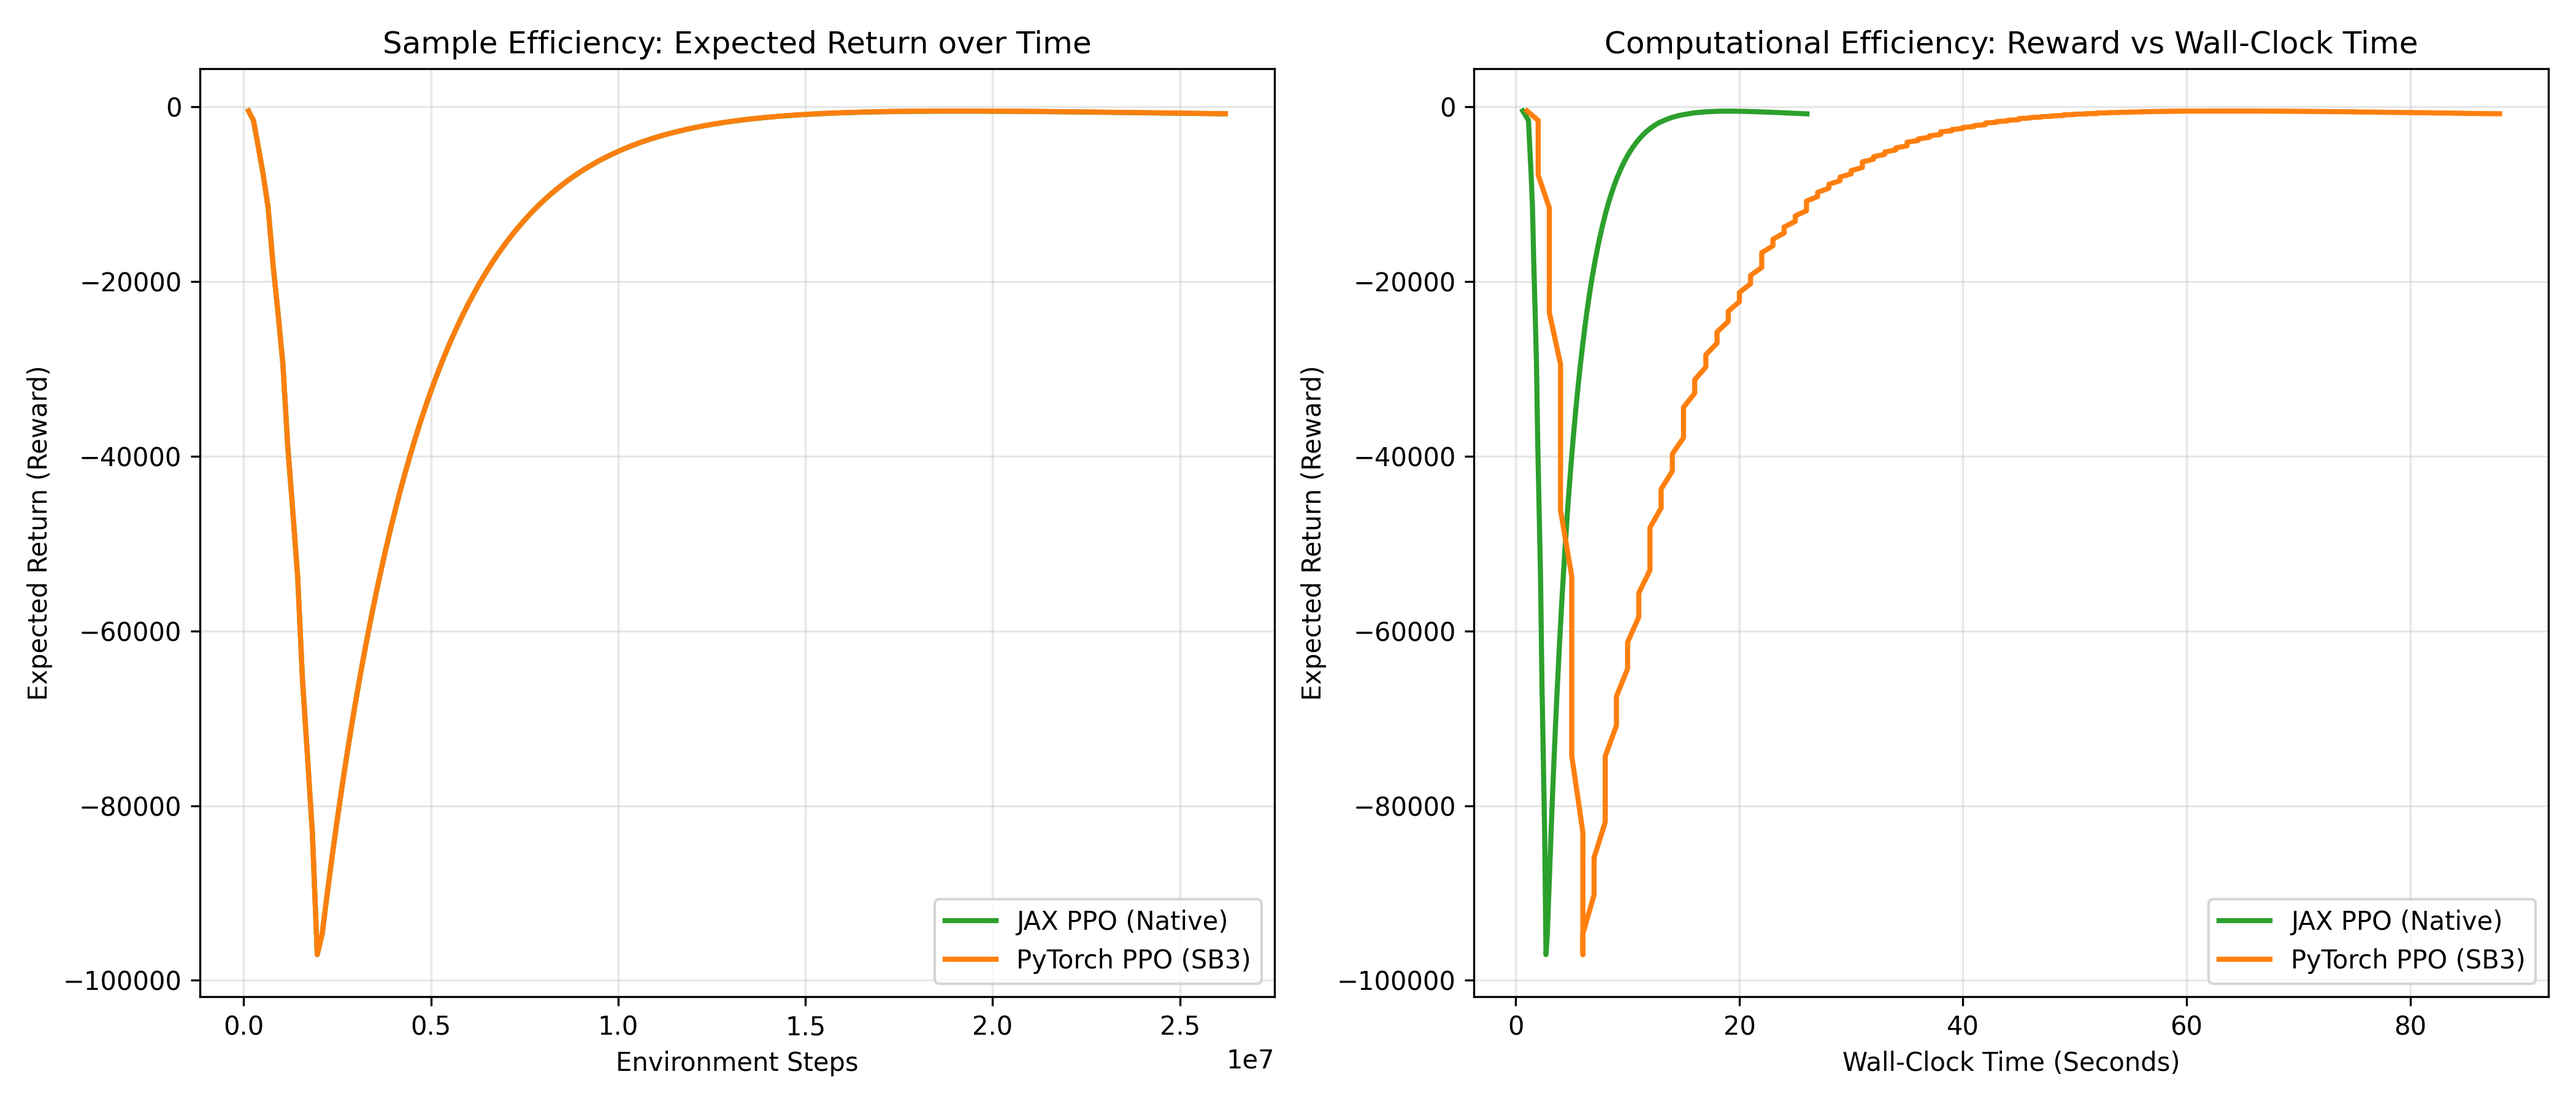
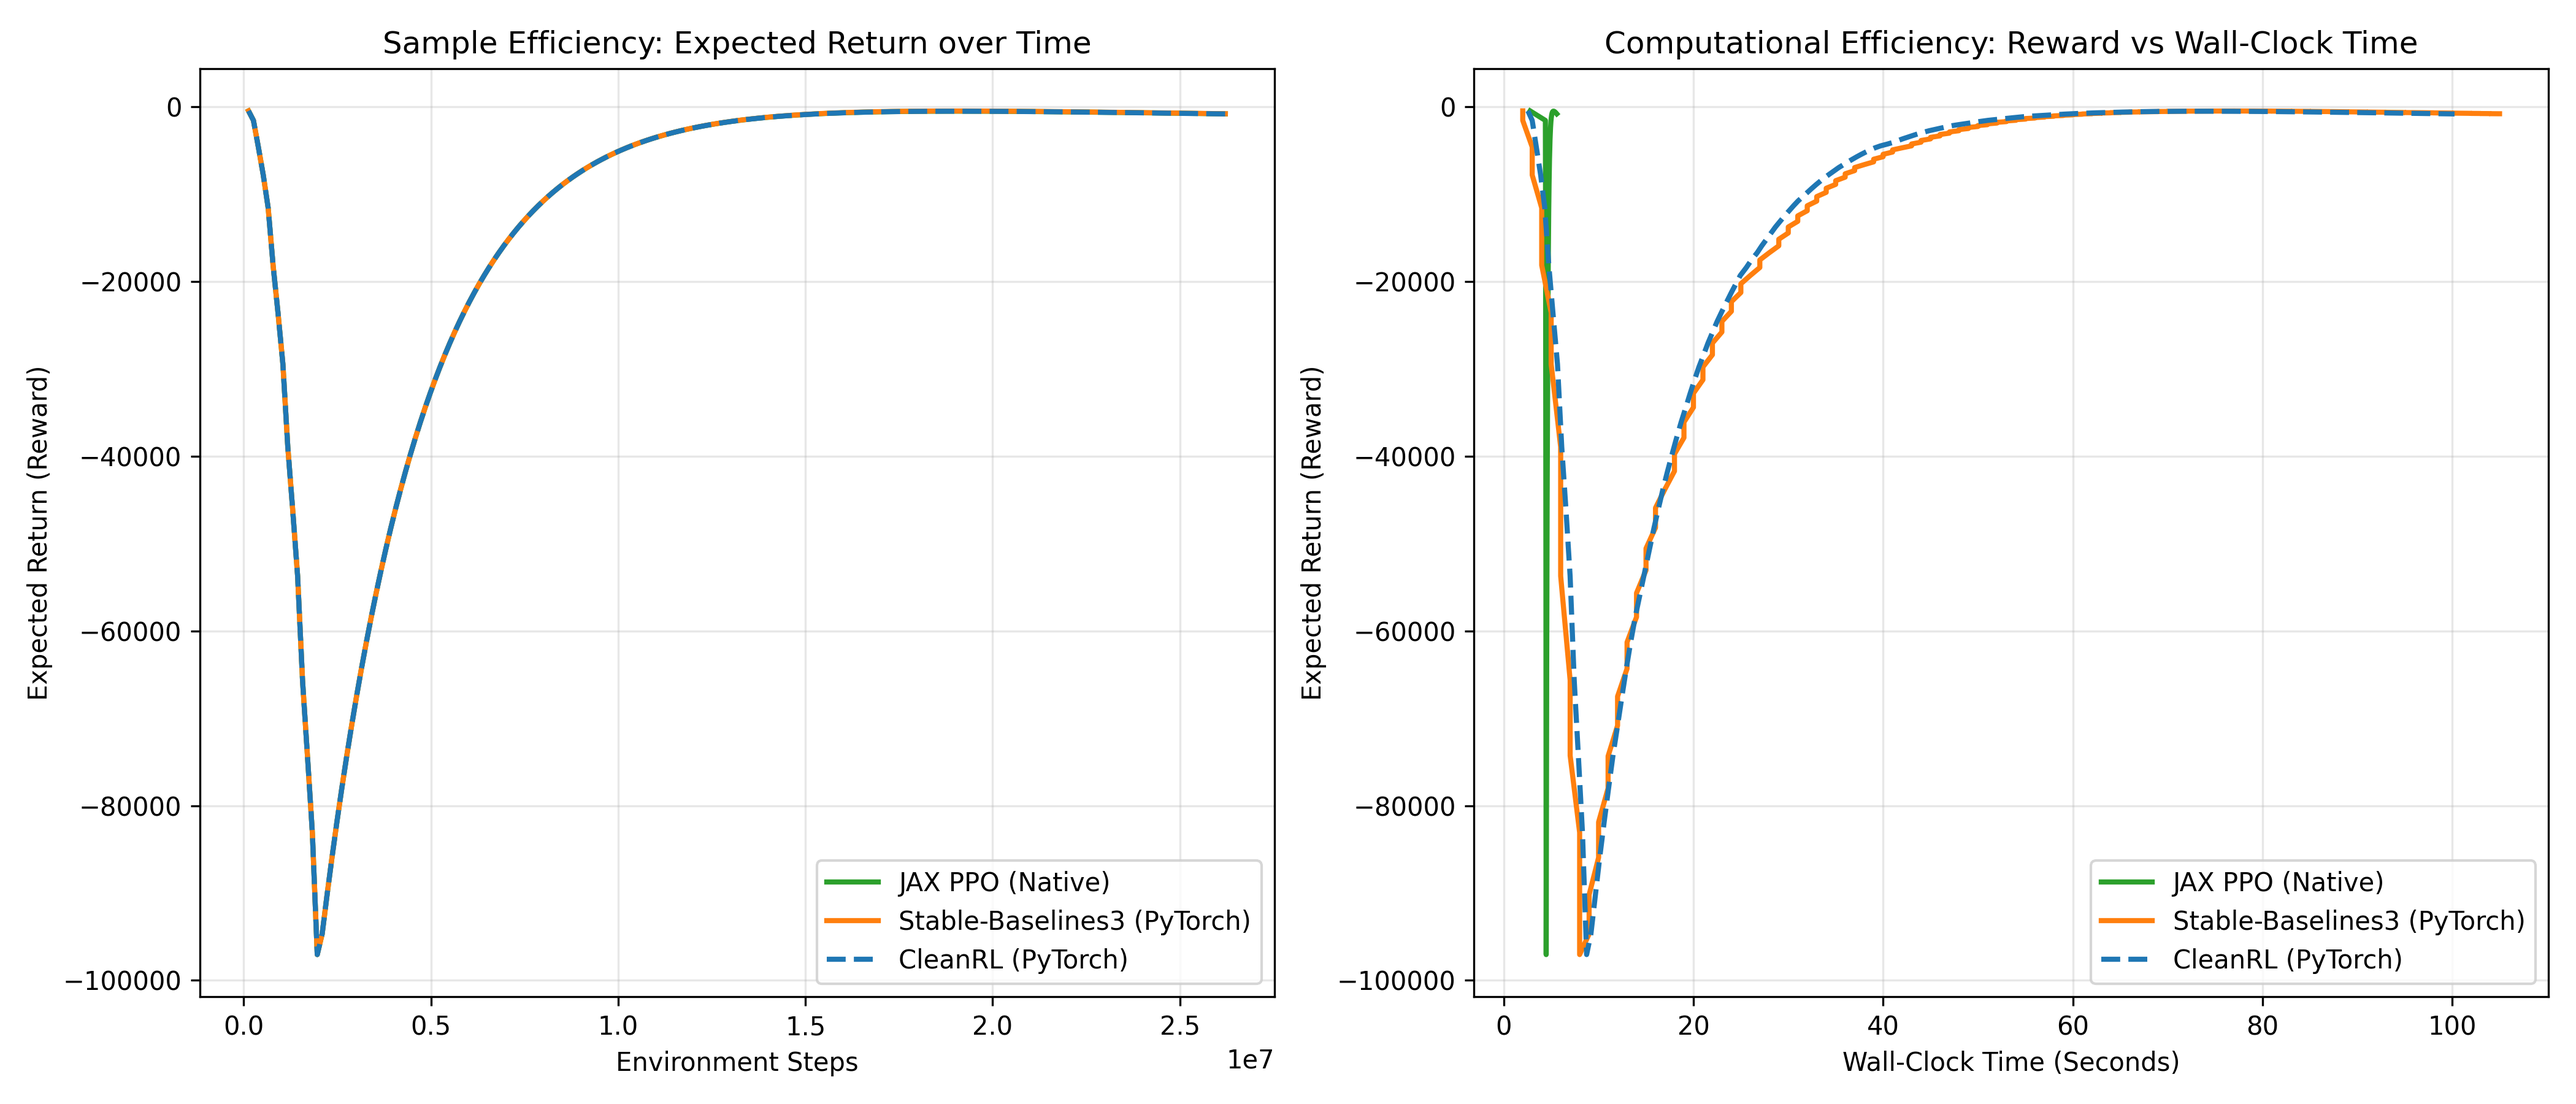
Computational speed compared between native vs cleanrl vs sb3

diff --git a/benchmark_cleanrl.py b/benchmark_cleanrl.py
@@ -1,0 +1,223 @@
+import os
+import sys
+import time
+import csv
+import numpy as np
+import jax
+import jax.numpy as jnp
+import gymnasium as gym
+
+import torch
+import torch.nn as nn
+import torch.optim as optim
+from torch.distributions.normal import Normal
+
+sys.path.append("/home/emmanuel-gendy/Documents/EnergySim")
+
+from energysim.sim.simulator import JAXSimulator
+from energysim.core.data.dataset import SimulationDataset
+from energysim.rl.vector_env import VectorizedEnergyEnv
+from energysim.core.shared.data_structs import (
+    BatteryConfig, RewardConfig, HeatPumpConfig, AirConditionerConfig, 
+    ThermalStorageConfig, PVConfig
+)
+from examples.build_my_house import create_2_room_house
+from energysim.rl.helpers import extract_obs
+
+# --- HYPERPARAMETERS ---
+NUM_ENVS = 2048
+ROLLOUT_STEPS = 64
+EPOCHS = 200
+LEARNING_RATE = 3e-4
+GAMMA = 0.99
+GAE_LAMBDA = 0.95
+CLIP_COEF = 0.2
+ENT_COEF = 0.01
+VF_COEF = 0.5
+
+def map_actions(norm_actions, n_envs, n_rooms):
+    return SystemActions(
+        battery_power_w=norm_actions[:, 0] * 3000.0,
+        heat_pump_power_w=(norm_actions[:, 1:1+n_rooms] + 1.0) * 1000.0,
+        ac_power_w=jnp.zeros((n_envs, n_rooms)), 
+        storage_discharge_w=jnp.zeros((n_envs, n_rooms))
+    )
+
+from energysim.core.shared.data_structs import SystemActions
+
+# --- GYMNASIUM WRAPPER (Standard) ---
+class CleanRLGymWrapper(gym.vector.VectorEnv):
+    def __init__(self, jax_env, num_envs, obs_dim, action_dim, extract_obs_fn, map_actions_fn):
+        super().__init__()
+        self.jax_env = jax_env
+        self.extract_obs_fn = extract_obs_fn
+        self.map_actions_fn = map_actions_fn
+        self.num_envs = num_envs
+        self.single_observation_space = gym.spaces.Box(low=-np.inf, high=np.inf, shape=(obs_dim,))
+        self.single_action_space = gym.spaces.Box(low=-1.0, high=1.0, shape=(action_dim,))
+        self._key = jax.random.PRNGKey(42)
+
+    def reset(self, seed=None, options=None):
+        self._key, reset_key = jax.random.split(self._key)
+        self._env_state = self.jax_env.reset(reset_key)
+        t = self._env_state.time_idx[0]
+        exo = jax.tree.map(lambda x: x[t], self.jax_env.shared_exo_data)
+        obs = jax.vmap(self.extract_obs_fn, in_axes=(0, None))(self._env_state.sim.state, exo)
+        return np.array(obs), {}
+
+    def step(self, actions):
+        phys_actions = self.map_actions_fn(jnp.array(actions), self.num_envs)
+        self._env_state, reward, done, _ = self.jax_env.step(self._env_state, phys_actions)
+        t = self._env_state.time_idx[0]
+        exo = jax.tree.map(lambda x: x[t], self.jax_env.shared_exo_data)
+        obs = jax.vmap(self.extract_obs_fn, in_axes=(0, None))(self._env_state.sim.state, exo)
+        return np.array(obs), np.array(reward), np.array(done, dtype=bool), np.zeros_like(np.array(done, dtype=bool)), {}
+
+# --- CLEAN RL AGENT ---
+def layer_init(layer, std=np.sqrt(2), bias_const=0.0):
+    torch.nn.init.orthogonal_(layer.weight, std)
+    torch.nn.init.constant_(layer.bias, bias_const)
+    return layer
+
+class Agent(nn.Module):
+    def __init__(self, obs_dim, act_dim):
+        super().__init__()
+        self.critic = nn.Sequential(
+            layer_init(nn.Linear(obs_dim, 64)), nn.ReLU(),
+            layer_init(nn.Linear(64, 64)), nn.ReLU(),
+            layer_init(nn.Linear(64, 1), std=1.0),
+        )
+        self.actor_mean = nn.Sequential(
+            layer_init(nn.Linear(obs_dim, 64)), nn.ReLU(),
+            layer_init(nn.Linear(64, 64)), nn.ReLU(),
+            layer_init(nn.Linear(64, act_dim), std=0.01),
+        )
+        self.actor_logstd = nn.Parameter(torch.zeros(1, act_dim))
+
+    def get_value(self, x):
+        return self.critic(x)
+
+    def get_action_and_value(self, x, action=None):
+        action_mean = torch.tanh(self.actor_mean(x))
+        action_logstd = self.actor_logstd.expand_as(action_mean)
+        action_std = torch.exp(action_logstd)
+        probs = Normal(action_mean, action_std)
+        if action is None:
+            action = probs.sample()
+        return action, probs.log_prob(action).sum(1), probs.entropy().sum(1), self.critic(x)
+
+# --- TRAINING LOOP ---
+def run_cleanrl():
+    device = torch.device("cuda" if torch.cuda.is_available() else "cpu")
+    print(f"--- [CleanRL] 1. Initializing Engine on {device} ---")
+    
+    t_config = create_2_room_house()
+    n_rooms = len(t_config.room_air_indices)
+    dataset = SimulationDataset(file_path="/home/emmanuel-gendy/Documents/EnergySim/examples/sample_data.csv", dt_seconds=900)    
+    sim = JAXSimulator(
+        dt_seconds=900, t_config=t_config, r_config=RewardConfig(price_weight=1.0, comfort_weight=5.0),
+        b_config=BatteryConfig(), hp_config=HeatPumpConfig(), ac_config=AirConditionerConfig(), 
+        ts_config=ThermalStorageConfig(), pv_config=PVConfig()
+    )
+    jax_env = VectorizedEnergyEnv(sim, dataset, num_envs=NUM_ENVS)
+    
+    obs_dim = n_rooms + 5
+    act_dim = 1 + n_rooms
+    room_indices = jnp.array(t_config.room_air_indices)
+    bound_extract_obs = lambda state, exo: extract_obs(state, exo, room_indices)
+    
+    env = CleanRLGymWrapper(jax_env, NUM_ENVS, obs_dim, act_dim, bound_extract_obs, lambda a, n: map_actions(a, n, n_rooms))
+    
+    agent = Agent(obs_dim, act_dim).to(device)
+    optimizer = optim.Adam(agent.parameters(), lr=LEARNING_RATE, eps=1e-5)
+
+    # Storage setup
+    obs = torch.zeros((ROLLOUT_STEPS, NUM_ENVS, obs_dim)).to(device)
+    actions = torch.zeros((ROLLOUT_STEPS, NUM_ENVS, act_dim)).to(device)
+    logprobs = torch.zeros((ROLLOUT_STEPS, NUM_ENVS)).to(device)
+    rewards = torch.zeros((ROLLOUT_STEPS, NUM_ENVS)).to(device)
+    dones = torch.zeros((ROLLOUT_STEPS, NUM_ENVS)).to(device)
+    values = torch.zeros((ROLLOUT_STEPS, NUM_ENVS)).to(device)
+
+    print("--- [CleanRL] 2. Starting Training ---")
+    global_step = 0
+    start_time = time.time()
+    next_obs, _ = env.reset()
+    next_obs = torch.Tensor(next_obs).to(device)
+    next_done = torch.zeros(NUM_ENVS).to(device)
+
+    with open("cleanrl_metrics.csv", mode="w", newline="") as file:
+        writer = csv.writer(file)
+        writer.writerow(["Epoch", "Total_Steps", "Wall_Clock_Time", "FPS", "Mean_Reward"])
+        
+        for epoch in range(1, EPOCHS + 1):
+            epoch_start = time.time()
+            rollout_rewards = []
+
+            for step in range(0, ROLLOUT_STEPS):
+                global_step += NUM_ENVS
+                obs[step] = next_obs
+                dones[step] = next_done
+
+                with torch.no_grad():
+                    action, logprob, _, value = agent.get_action_and_value(next_obs)
+                    values[step] = value.flatten()
+
+                actions[step] = action
+                next_obs, reward, done, _, _ = env.step(action.cpu().numpy())
+                rollout_rewards.append(np.mean(reward))
+                
+                rewards[step] = torch.tensor(reward).to(device).view(-1)
+                next_obs, next_done = torch.Tensor(next_obs).to(device), torch.Tensor(done).to(device)
+
+            # GAE
+            with torch.no_grad():
+                next_value = agent.get_value(next_obs).reshape(1, -1)
+                advantages = torch.zeros_like(rewards).to(device)
+                lastgaelam = 0
+                for t in reversed(range(ROLLOUT_STEPS)):
+                    if t == ROLLOUT_STEPS - 1:
+                        nextnonterminal = 1.0 - next_done
+                        nextvalues = next_value
+                    else:
+                        nextnonterminal = 1.0 - dones[t + 1]
+                        nextvalues = values[t + 1]
+                    delta = rewards[t] + GAMMA * nextvalues * nextnonterminal - values[t]
+                    advantages[t] = lastgaelam = delta + GAMMA * GAE_LAMBDA * nextnonterminal * lastgaelam
+                returns = advantages + values
+
+            # Update
+            b_obs = obs.reshape((-1, obs_dim))
+            b_logprobs = logprobs.reshape(-1)
+            b_actions = actions.reshape((-1, act_dim))
+            b_advantages = advantages.reshape(-1)
+            b_returns = returns.reshape(-1)
+            b_values = values.reshape(-1)
+
+            b_advantages = (b_advantages - b_advantages.mean()) / (b_advantages.std() + 1e-8)
+
+            _, newlogprob, entropy, newvalue = agent.get_action_and_value(b_obs, b_actions)
+            logratio = newlogprob - b_logprobs
+            ratio = logratio.exp()
+
+            pg_loss1 = -b_advantages * ratio
+            pg_loss2 = -b_advantages * torch.clamp(ratio, 1 - CLIP_COEF, 1 + CLIP_COEF)
+            pg_loss = torch.max(pg_loss1, pg_loss2).mean()
+
+            v_loss = 0.5 * ((newvalue.view(-1) - b_returns) ** 2).mean()
+            entropy_loss = entropy.mean()
+            loss = pg_loss - ENT_COEF * entropy_loss + v_loss * VF_COEF
+
+            optimizer.zero_grad()
+            loss.backward()
+            nn.utils.clip_grad_norm_(agent.parameters(), 0.5)
+            optimizer.step()
+
+            # Metrics
+            fps = int((NUM_ENVS * ROLLOUT_STEPS) / (time.time() - epoch_start))
+            mean_ep_return = np.mean(rollout_rewards) * 96
+            writer.writerow([epoch, global_step, time.time() - start_time, fps, float(mean_ep_return)])
+            print(f"Epoch {epoch:03d}/{EPOCHS} | FPS: {fps:,} | Reward: {mean_ep_return:.4f}")
+
+if __name__ == "__main__":
+    run_cleanrl()

diff --git a/plot_benchmark.py b/plot_benchmark.py
@@ -7,22 +7,19 @@ def generate_plots():
     try:
         jax_data = pd.read_csv("jax_metrics.csv")
         sb3_data = pd.read_csv("./sb3_logs/progress.csv")
+        cleanrl_data = pd.read_csv("cleanrl_metrics.csv")
     except FileNotFoundError as e:
-        print(f"Error loading data: {e}. Ensure both training scripts finished.")
+        print(f"Error loading data: {e}. Ensure all training scripts finished.")
         return
 
-    # ✅ FIX: Strictly pull our newly created custom metric
     sb3_reward_col = 'custom/mean_episodic_return'
-    
-    if sb3_reward_col not in sb3_data.columns:
-        print("🚨 ERROR: Custom metric not found in SB3 CSV. Ensure the callback is attached.")
-        return
     
     fig, (ax1, ax2) = plt.subplots(1, 2, figsize=(14, 6))
 
     # --- Plot 1: Sample Efficiency (Math Check) ---
     ax1.plot(jax_data["Total_Steps"], jax_data["Mean_Reward"], label="JAX PPO (Native)", color="#2ca02c", linewidth=2)
-    ax1.plot(sb3_data["time/total_timesteps"], sb3_data[sb3_reward_col], label="PyTorch PPO (SB3)", color="#ff7f0e", linewidth=2)
+    ax1.plot(sb3_data["time/total_timesteps"], sb3_data[sb3_reward_col], label="Stable-Baselines3 (PyTorch)", color="#ff7f0e", linewidth=2)
+    ax1.plot(cleanrl_data["Total_Steps"], cleanrl_data["Mean_Reward"], label="CleanRL (PyTorch)", color="#1f77b4", linewidth=2, linestyle="--")
     
     ax1.set_title("Sample Efficiency: Expected Return over Time")
     ax1.set_xlabel("Environment Steps")
@@ -33,7 +30,8 @@ def generate_plots():
     # --- Plot 2: Computational Efficiency (Hardware Check) ---
     ax2.plot(jax_data["Wall_Clock_Time"], jax_data["Mean_Reward"], label="JAX PPO (Native)", color="#2ca02c", linewidth=2)
     if 'time/time_elapsed' in sb3_data.columns:
-        ax2.plot(sb3_data["time/time_elapsed"], sb3_data[sb3_reward_col], label="PyTorch PPO (SB3)", color="#ff7f0e", linewidth=2)
+        ax2.plot(sb3_data["time/time_elapsed"], sb3_data[sb3_reward_col], label="Stable-Baselines3 (PyTorch)", color="#ff7f0e", linewidth=2)
+    ax2.plot(cleanrl_data["Wall_Clock_Time"], cleanrl_data["Mean_Reward"], label="CleanRL (PyTorch)", color="#1f77b4", linewidth=2, linestyle="--")
 
     ax2.set_title("Computational Efficiency: Reward vs Wall-Clock Time")
     ax2.set_xlabel("Wall-Clock Time (Seconds)")

diff --git a/run_suite.py b/run_suite.py
@@ -4,7 +4,6 @@ import sys
 def run_command(command, description):
     print(f"\n{'='*50}\n🚀 Starting: {description}\n{'='*50}")
     try:
-        # We use subprocess.run to execute the scripts in isolated memory spaces
         result = subprocess.run([sys.executable, command], check=True)
         print(f"✅ Finished: {description}")
     except subprocess.CalledProcessError as e:
@@ -15,6 +14,7 @@ if __name__ == "__main__":
     print("Welcome to the JAX vs PyTorch PPO Benchmarking Suite.")
     
     run_command("train.py", "Native JAX PPO Engine")
+    run_command("benchmark_cleanrl.py", "CleanRL PyTorch Engine")
     run_command("benchmark_sb3.py", "Stable-Baselines3 PyTorch Engine")
     run_command("plot_benchmark.py", "Generating Visualizations")
     

diff --git a/train.py b/train.py
@@ -25,7 +25,7 @@ from energysim.rl.helpers import extract_obs
 from examples.build_my_house import create_2_room_house
 import energysim.sim.simulator as sim_module
 
-os.environ["JAX_PLATFORM_NAME"] = "cpu"
+# os.environ["JAX_PLATFORM_NAME"] = "cpu"
 
 NUM_ENVS = 2048
 ROLLOUT_STEPS = 64
